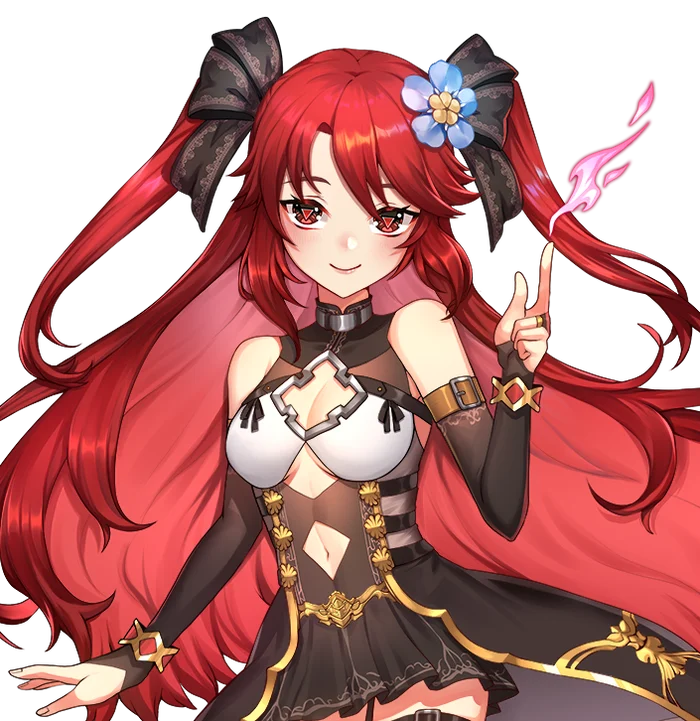
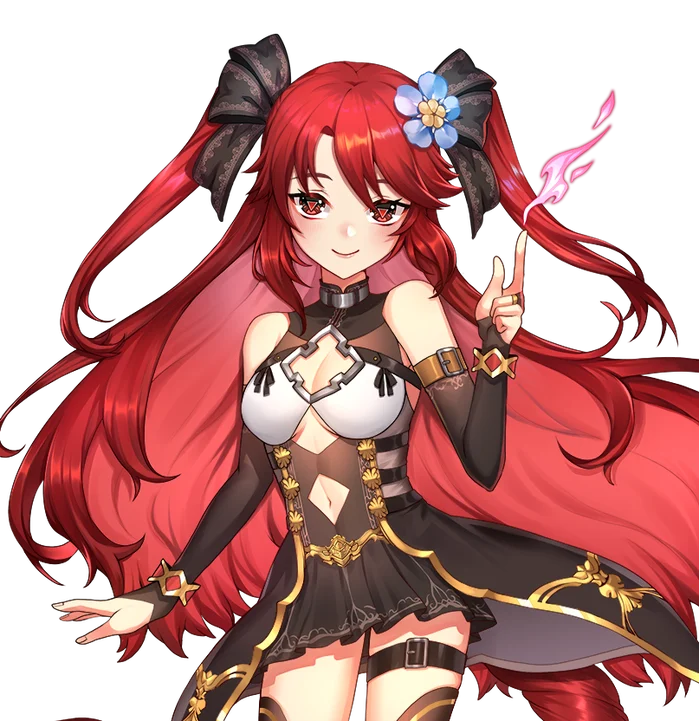
Recrop Luxia, Augustine, Monace half-body
Claude-Session: https://claude.ai/code/session_0182ETGqkY6VZC2ACV9rE9Mb

diff --git a/index.html b/index.html
@@ -949,12 +949,12 @@ var TALENTS = [
   { id:'hoku', halves:['talent-hoku-half.webp'], card:'talent-hoku-half.webp', img:'talent-hoku.webp?v=3', face:'talent-hoku-face.webp?v=7',  name:'Hoku', short:'Hoku', ini:'HK', type:'VTuber', aff:{name:'Polygon', logo:'logos/polygon-mark.png'}, langs:['th','en'], color:'#E9DFC8', tags:['#Singing','#FreeTalk','#Gaming','#Horror'], works:['promo','review','cover','collab','dub'], links:[['YouTube',119655,'https://www.youtube.com/@HokuPLG'],['TikTok',35000,'https://www.tiktok.com/@hokuplg'],['Facebook',23440,'http://facebook.com/HokuPolygon'],['X',32083,'http://twitter.com/HokuPLG']], quote:['โฮคุ นกฮูกเปี่ยมไมตรีที่ชอบเรื่องผีและหาทำ','Hoku, a friendly owl who loves ghost stories and always finds something to get into.'] },
   { id:'lucene', halves:['talent-lucene-half.webp'], card:'talent-lucene-half.webp', img:'talent-lucene.webp', face:'talent-lucene-face.webp?v=7',  name:'Lucene', short:'Lucene', ini:'LC', type:'VTuber', aff:{name:'Polygon', logo:'logos/polygon-mark.png'}, langs:['th','en'], color:'#FDE2EE', tags:['#Singing','#FreeTalk','#Gaming','#Gacha'], works:['promo','review','cover','collab','dub'], links:[['YouTube',83400,'https://www.youtube.com/@LucenePLG'],['TikTok',24071,'https://www.tiktok.com/@plglucene'],['Facebook',20102,'https://www.facebook.com/LucenePolygon'],['X',19508,'https://x.com/LucenePLG']], quote:['ลูเซเน่ กระต่ายอนิเมะผู้เสกความสดใสและชอบเสี่ยงดวง💸','Lucene, an anime bunny who conjures up cheer and loves to try her luck 💸'] },
   { id:'lapine', halves:['talent-lapine-half.webp?v=3'], card:'talent-lapine-half.webp?v=3', img:'talent-lapine.webp', face:'talent-lapine-face.webp?v=7',  name:'Lapine', short:'Lapine', ini:'LP', type:'VTuber', aff:{name:'Polygon', logo:'logos/polygon-mark.png'}, langs:['th','en'], color:'#FFD9E4', tags:['#Singing','#FreeTalk','#Gaming'], works:['promo','review','cover','collab','dub'], links:[['YouTube',69355,'https://www.youtube.com/@LapinePLG'],['TikTok',8885,'https://www.tiktok.com/@lapineplg'],['Facebook',16150,'https://www.facebook.com/LapinePolygon'],['X',20482,'https://x.com/LapinePLG']], quote:['ลาพิเน่ กระต่ายสีชมพูที่คุณดูแล้วต้องกำหมัด','Lapine, the pink bunny so cute you will clench your fists.'] },
-  { id:'luxia', halves:['talent-luxia-half.webp?v=3'], card:'talent-luxia-half.webp?v=3', img:'talent-luxia.webp?v=3', face:'talent-luxia-face.webp?v=8',  name:'Luxia', short:'Luxia', ini:'LX', type:'VTuber', aff:{name:'Polygon', logo:'logos/polygon-mark.png'}, langs:['th'], color:'#E7E1F7', tags:['#Singing','#FreeTalk','#Gaming','#Drawing'], works:['promo','review','collab','dub'], links:[['YouTube',57079,'https://www.youtube.com/@LuxiaPLG'],['TikTok',15700,'https://www.tiktok.com/@luxiaplg'],['Facebook',12455,'https://www.facebook.com/LuxiaPolygon'],['X',16481,'https://x.com/LuxiaPLG']], quote:['ลูเซีย แม่ชีนักวาดผู้ไม่อาจหยุดความวายป่วง','Luxia, an artist nun who simply cannot stop the chaos.'] },
+  { id:'luxia', halves:['talent-luxia-half.webp?v=4'], card:'talent-luxia-half.webp?v=4', img:'talent-luxia.webp?v=3', face:'talent-luxia-face.webp?v=8',  name:'Luxia', short:'Luxia', ini:'LX', type:'VTuber', aff:{name:'Polygon', logo:'logos/polygon-mark.png'}, langs:['th'], color:'#E7E1F7', tags:['#Singing','#FreeTalk','#Gaming','#Drawing'], works:['promo','review','collab','dub'], links:[['YouTube',57079,'https://www.youtube.com/@LuxiaPLG'],['TikTok',15700,'https://www.tiktok.com/@luxiaplg'],['Facebook',12455,'https://www.facebook.com/LuxiaPolygon'],['X',16481,'https://x.com/LuxiaPLG']], quote:['ลูเซีย แม่ชีนักวาดผู้ไม่อาจหยุดความวายป่วง','Luxia, an artist nun who simply cannot stop the chaos.'] },
   { id:'riona', halves:['talent-riona-half.webp?v=3','talent-riona-2-half.webp?v=3'], card:'talent-riona-half.webp?v=3', img:'talent-riona.webp', face:'talent-riona-face.webp?v=7', forms:['talent-riona.webp','talent-riona-2.webp'],  name:'Riona', short:'Riona', ini:'RN', type:'VTuber', aff:{name:'Polygon', logo:'logos/polygon-mark.png'}, langs:['th','en'], color:'#FFE7C7', tags:['#Singing','#FreeTalk','#Gaming','#RolePlay'], works:['promo','review','collab','dub'], links:[['YouTube',16208,'https://www.youtube.com/@RionaPLG'],['TikTok',4081,'https://www.tiktok.com/@rionaplg'],['Facebook',10980,'https://www.facebook.com/RionaPolygon'],['X',4583,'https://x.com/RionaPLG']], quote:['เสือ สวย รวย และน่าน้วยก็ได้ ประธานนักเรียนรุ่นที่ 10 โรงเรียน PLG ริโอน่า สวัสดีค่ะ','A tiger: pretty, rich, and cuddly if you like. Hello, I am Riona, 10th student council president of PLG School!'] },
   { id:'anya', halves:['talent-anya-half.webp?v=3','talent-anya-2-half.webp?v=3'], card:'talent-anya-half.webp?v=3', img:'talent-anya.webp?v=2', face:'talent-anya-face.webp?v=7', forms:['talent-anya.webp?v=2','talent-anya-2.webp'],  name:'Anya', short:'Anya', ini:'AY', type:'VTuber', aff:{name:'Polygon', logo:'logos/polygon-mark.png'}, langs:['th'], color:'#DCEFE3', tags:['#Singing','#FreeTalk','#Gaming','#HandCam'], works:['promo','review','collab','dub'], links:[['YouTube',19635,'https://www.youtube.com/@AnyaPLG'],['TikTok',8095,'https://www.tiktok.com/@anyaplg'],['Facebook',7139,'https://www.facebook.com/AnyaPolygon'],['X',4071,'https://x.com/AnyaPLG']], quote:['ลึกแต่ไม่ลับ คับแต่ไม่แคบ ไม่ใช่แค่ช้าง แต่เป็นแมมมอธ แฮ่ !','Deep but no secrets, packed but never cramped. Not just an elephant, a mammoth. Rawr!'] },
-  { id:'monace', halves:['talent-monace-half.webp?v=3'], card:'talent-monace-half.webp?v=3', img:'talent-monace.webp', face:'talent-monace-face.webp?v=7',  name:'Monace', short:'Monace', ini:'MN', type:'VTuber', aff:{name:'Polygon', logo:'logos/polygon-mark.png'}, langs:['th','en'], color:'#D9E4F5', tags:['#Singing','#FreeTalk','#Gaming','#SongComposer'], works:['promo','review','cover','collab','dub'], links:[['YouTube',2608,'https://www.youtube.com/@MONACEPLG'],['TikTok',1735,'https://www.tiktok.com/@monaceplg'],['Facebook',558,'https://www.facebook.com/MONACEPLG'],['X',1477,'https://x.com/MONACEPLG']], quote:['แรปเปอร์ตัวตึงอาจจะดูเท่ แต่ใจดี พร้อมอยู่ข้างๆ ให้คุณรู้สึกสบายใจเสมอ โซโล โมเนซ ครับ 🪽','A rapper who may look tough but has a kind heart, always by your side to put you at ease. Solo Monace here 🪽'] },
+  { id:'monace', halves:['talent-monace-half.webp?v=4'], card:'talent-monace-half.webp?v=4', img:'talent-monace.webp', face:'talent-monace-face.webp?v=7',  name:'Monace', short:'Monace', ini:'MN', type:'VTuber', aff:{name:'Polygon', logo:'logos/polygon-mark.png'}, langs:['th','en'], color:'#D9E4F5', tags:['#Singing','#FreeTalk','#Gaming','#SongComposer'], works:['promo','review','cover','collab','dub'], links:[['YouTube',2608,'https://www.youtube.com/@MONACEPLG'],['TikTok',1735,'https://www.tiktok.com/@monaceplg'],['Facebook',558,'https://www.facebook.com/MONACEPLG'],['X',1477,'https://x.com/MONACEPLG']], quote:['แรปเปอร์ตัวตึงอาจจะดูเท่ แต่ใจดี พร้อมอยู่ข้างๆ ให้คุณรู้สึกสบายใจเสมอ โซโล โมเนซ ครับ 🪽','A rapper who may look tough but has a kind heart, always by your side to put you at ease. Solo Monace here 🪽'] },
   { id:'vinxiii', halves:['talent-vinxiii-half.webp?v=2'], card:'talent-vinxiii-half.webp?v=2', img:'talent-vinxiii.webp', face:'talent-vinxiii-face.webp?v=7',  name:'VinXIII', short:'VinXIII', ini:'VX', type:'VTuber', aff:{name:'Polygon', logo:'logos/polygon-mark.png'}, langs:['th'], color:'#F6E7C8', tags:['#Singing','#FreeTalk','#Gaming'], works:['promo','review','cover','collab'], links:[['YouTube',1715,'https://www.youtube.com/@VinXIIIPLG'],['TikTok',1187,'https://www.tiktok.com/@vinxiiiplg'],['Facebook',139,'https://www.facebook.com/VinXIIIPLG'],['X',2175,'https://x.com/VinXIIIPLG']], quote:['ถ้าตามหาคนที่จะทำให้หัวเราะได้ วินซี่ อยู่ตรงนี้เองครับ ที่ไม่ว่าอยู่ที่ไหนก็ทำให้บรรยากาศสดใสขึ้นทันที ⚜','Looking for someone to make you laugh? Vinzy is right here, brightening the room wherever he goes ⚜'] },
-  { id:'augustine', halves:['talent-augustine-half.webp?v=3'], card:'talent-augustine-half.webp?v=3', img:'talent-augustine.webp', face:'talent-augustine-face.webp?v=7',  name:'Augustine', short:'Augustine', ini:'AG', type:'VTuber', aff:{name:'Polygon', logo:'logos/polygon-mark.png'}, langs:['th','en'], color:'#E3F0FA', tags:['#Singing','#FreeTalk','#Gaming','#Dentist'], works:['promo','review','cover','collab'], links:[['YouTube',10500,'https://www.youtube.com/@AugustinePLG'],['TikTok',37200,'https://www.tiktok.com/@augustineplg'],['Facebook',770,'https://www.facebook.com/AugustinePLG'],['X',4178,'https://x.com/AugustinePLG']], quote:['ออกัสทีนเองครับ มีทั้งความสวย ความหล่อ และพลังบวกที่จะทำให้คุณยิ้มได้ทุกวัน อยากมาลองชิมมั้ยครับ','Augustine here: pretty, handsome and full of good vibes to make you smile every day. Care for a taste?'] },
+  { id:'augustine', halves:['talent-augustine-half.webp?v=4'], card:'talent-augustine-half.webp?v=4', img:'talent-augustine.webp', face:'talent-augustine-face.webp?v=7',  name:'Augustine', short:'Augustine', ini:'AG', type:'VTuber', aff:{name:'Polygon', logo:'logos/polygon-mark.png'}, langs:['th','en'], color:'#E3F0FA', tags:['#Singing','#FreeTalk','#Gaming','#Dentist'], works:['promo','review','cover','collab'], links:[['YouTube',10500,'https://www.youtube.com/@AugustinePLG'],['TikTok',37200,'https://www.tiktok.com/@augustineplg'],['Facebook',770,'https://www.facebook.com/AugustinePLG'],['X',4178,'https://x.com/AugustinePLG']], quote:['ออกัสทีนเองครับ มีทั้งความสวย ความหล่อ และพลังบวกที่จะทำให้คุณยิ้มได้ทุกวัน อยากมาลองชิมมั้ยครับ','Augustine here: pretty, handsome and full of good vibes to make you smile every day. Care for a taste?'] },
 ];
 var ART = [
   { label:['สติกเกอร์ LINE','LINE Sticker'], icon:'sticker', bg:'#FFF0C9', desc:['สติกเกอร์ไลน์ทั้งแบบนิ่งและแบบเคลื่อนไหว','Static and animated LINE stickers.'], kw:'สติกเกอร์ สติ๊กเกอร์ ไลน์ sticker' },
